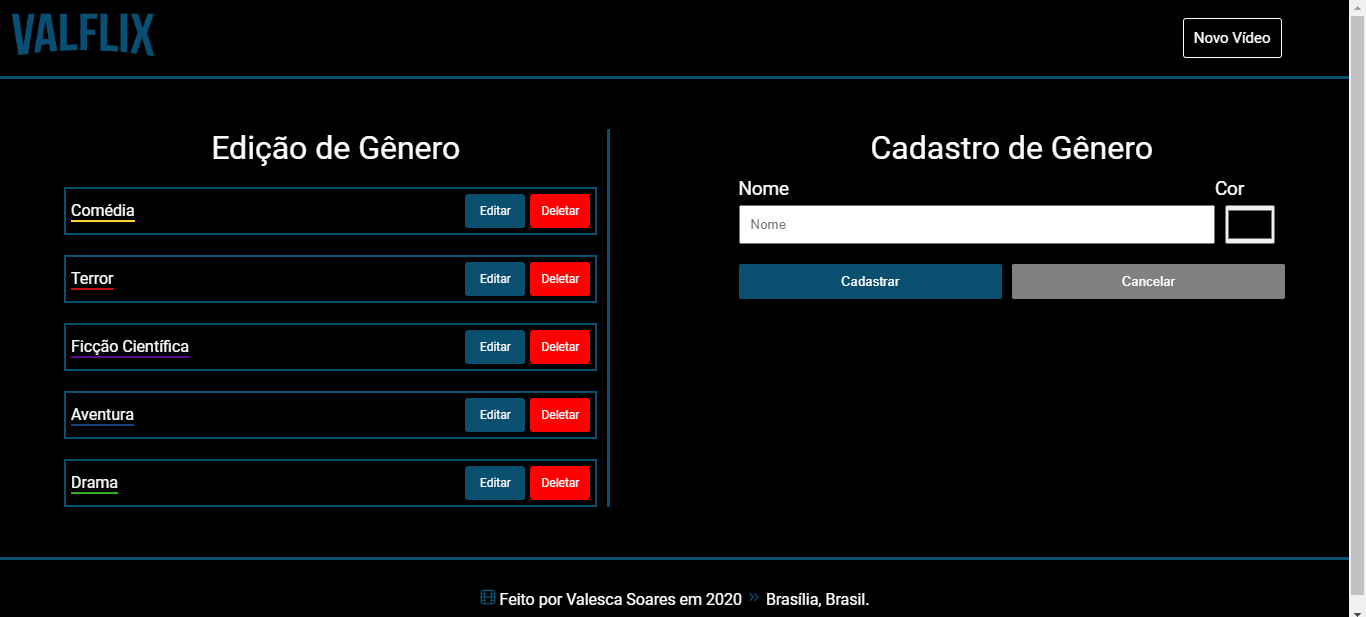
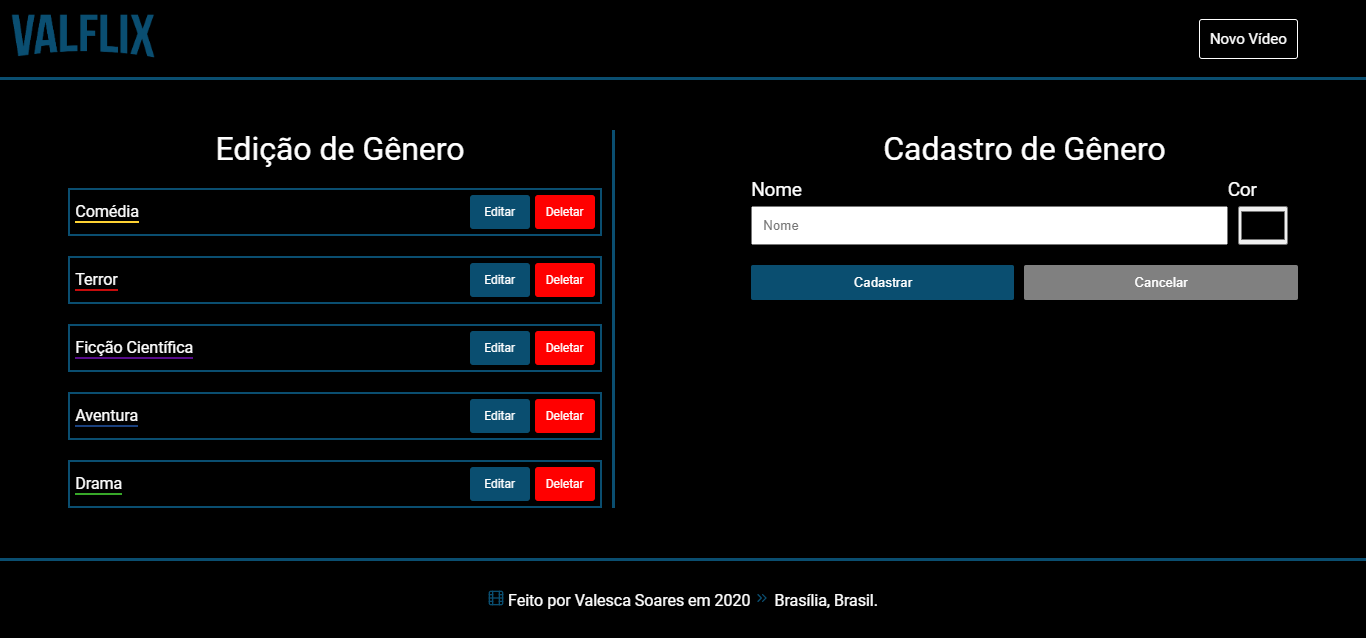
ajustes em cor de inputs e atualização de prints

diff --git a/frontend/src/components/styles.js b/frontend/src/components/styles.js
@@ -45,6 +45,7 @@ export const InputBox = styled.form`
 
 export const Input = styled.input`
     width: 100%;
+    color: gray;
     padding: 10px;
     margin-bottom: 20px;
 `;
@@ -69,6 +70,7 @@ export const SelectOption = styled.option`
 export const Text = styled.textarea`
     max-width: 100%;
     width: 100%;
+    color: gray;
     margin-bottom: 20px;
     padding: 10px;
 `;
